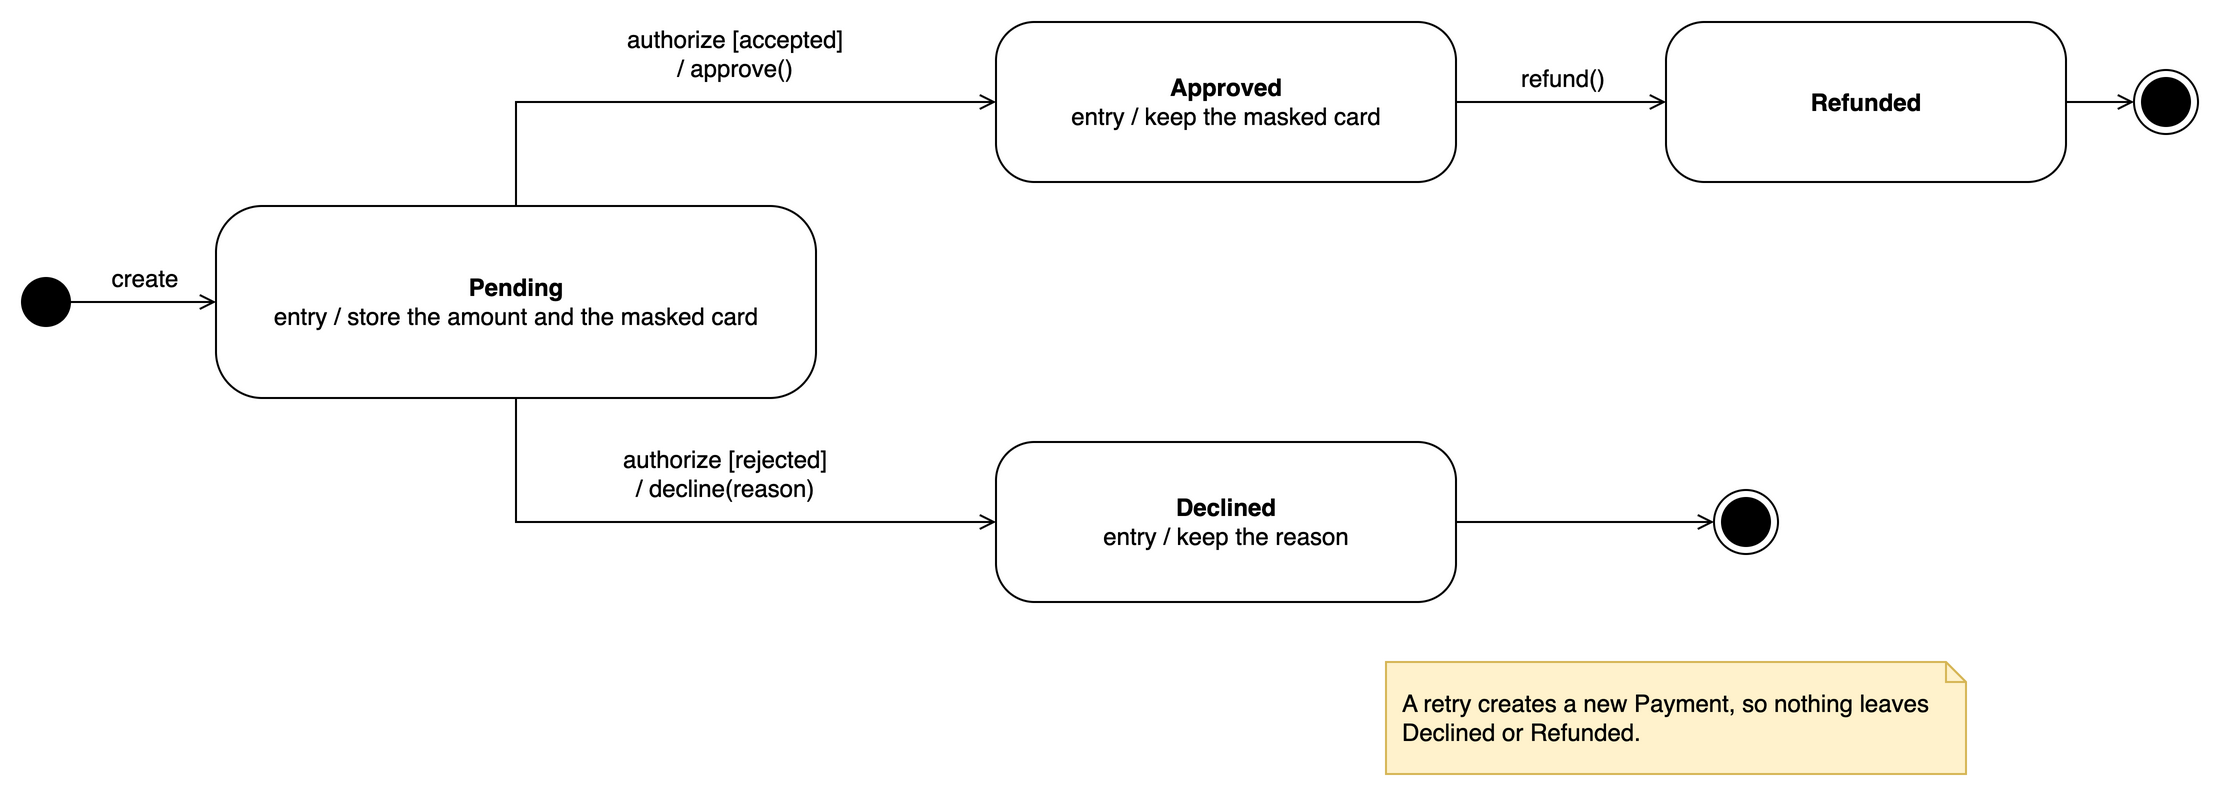
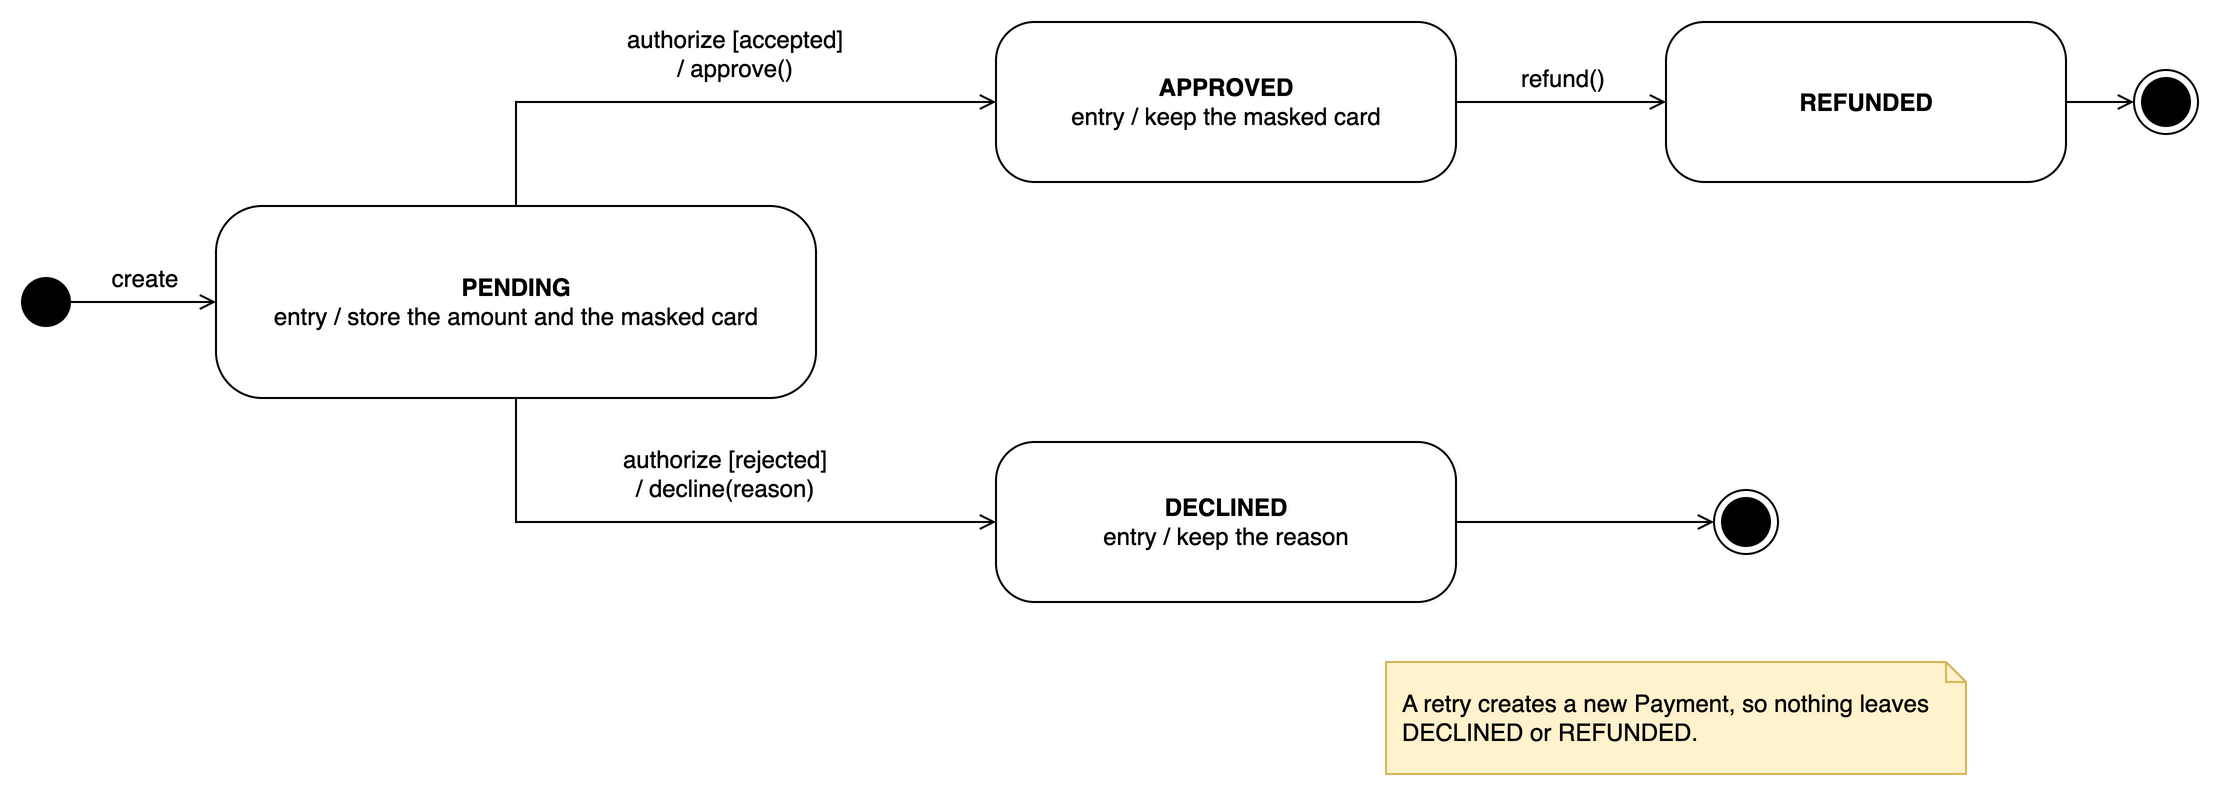
Write the payment states in capitals like the enumeration

diff --git a/docs/report/sections/e-state.tex b/docs/report/sections/e-state.tex
@@ -26,14 +26,14 @@ database, and then in the final state.
 
 The diagram below shows one Payment record. Its four states are the values of
 the payment status in the class diagram. A new Payment is created in
-\texttt{Pending}. When the simulated authorization accepts it, the Payment calls
-\texttt{approve()} and becomes \texttt{Approved}. When the authorization rejects
-it, the Payment calls \texttt{decline(reason)} and becomes \texttt{Declined}. An
+\texttt{PENDING}. When the simulated authorization accepts it, the Payment calls
+\texttt{approve()} and becomes \texttt{APPROVED}. When the authorization rejects
+it, the Payment calls \texttt{decline(reason)} and becomes \texttt{DECLINED}. An
 approved Payment can later be refunded, which happens when its reservation is
-cancelled or changed to a different price, and then becomes \texttt{Refunded}.
-Nothing leaves \texttt{Declined} or \texttt{Refunded}: the arrows to the final
+cancelled or changed to a different price, and then becomes \texttt{REFUNDED}.
+Nothing leaves \texttt{DECLINED} or \texttt{REFUNDED}: the arrows to the final
 node need no event. If a customer tries again after a declined payment, the
-system creates a new Payment, so a record never goes back to \texttt{Pending}.
+system creates a new Payment, so a record never goes back to \texttt{PENDING}.
 This matches the payment activity diagram and the sequence diagram of the
 payment.
 
